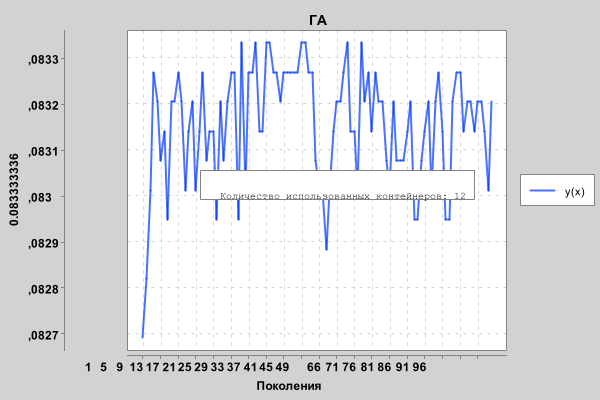
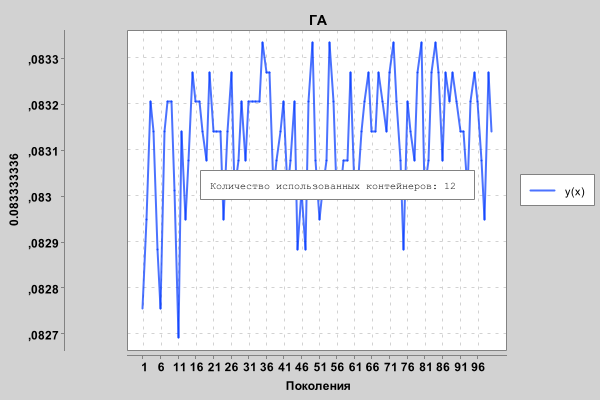
Изменения в файлах проекта: добавление окно вывода информации

Changed region(s): [[0.21, 0.09, 0.84, 0.84], [0.12, 0.9, 0.81, 0.99], [0.21, 0.81, 0.24, 0.84]]

diff --git a/src/sample/algorithm/MainGA.java b/src/sample/algorithm/MainGA.java
@@ -700,10 +700,14 @@ public class MainGA extends JPanel
 
                // System.out.println(counter+",      "+prevAvgFit+",       "+prevGenesration.get(0).fitness+",          "+prevGenesration.get(0).bins);
                 writer.write(counter+","+prevAvgFit+","+prevGenesration.get(0).fitness+","+prevGenesration.get(0).bins+"\n");
+
             }
             writer.close();
 
             Chromosomes best= prevGenesration.get(0);
+
+            JOptionPane.showMessageDialog(null, "Количество использованных контейнеров: " + prevGenesration.get(0).bins+"\n"+ "Все данные сохранены в out файле");
+
 
             //график
 
@@ -726,7 +730,7 @@ public class MainGA extends JPanel
 
     public static void main(String[] args) throws Exception
     {
-//Пути со значениями
+        //Пути со значениями
         String output_file = "./output.csv";
 
         String path_bin = "./input/bins_input.csv";
